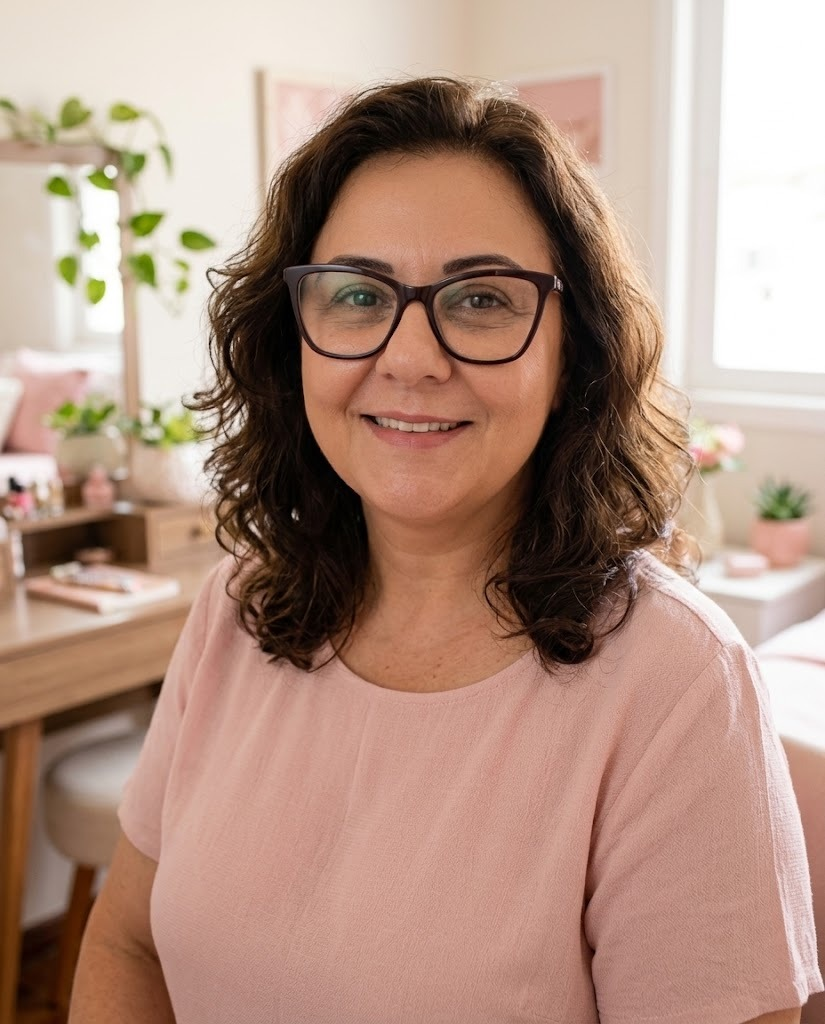
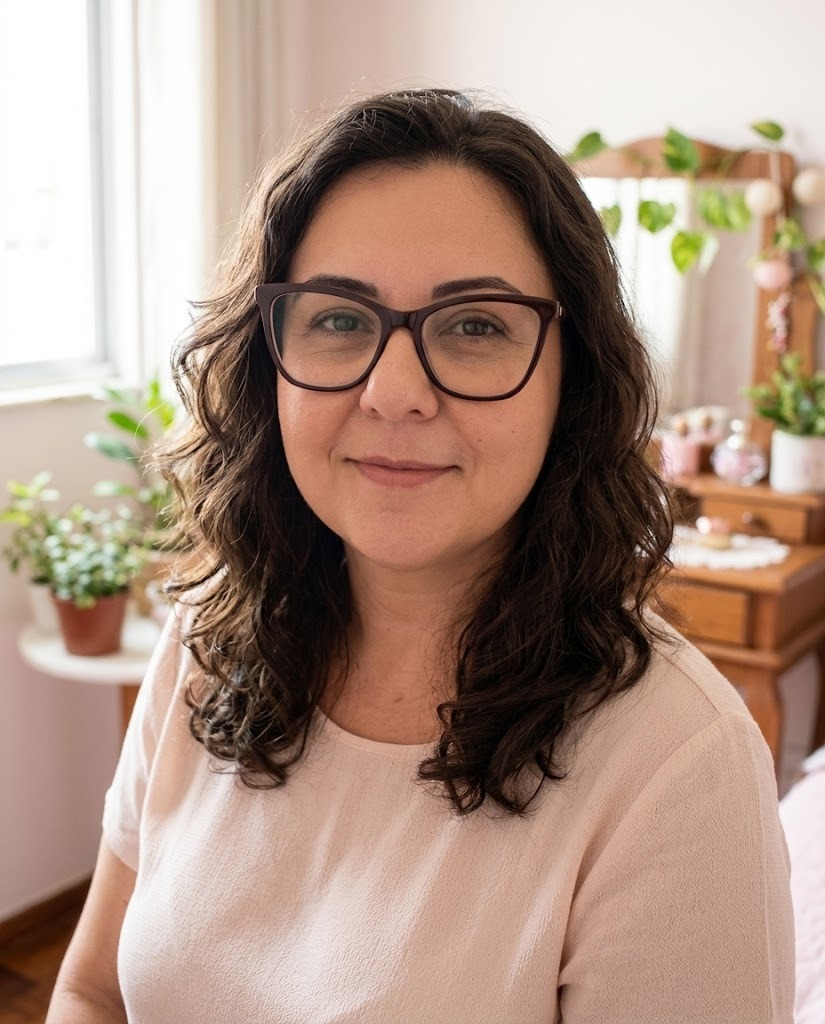
👩 Ana: nova foto da personagem
Claude-Session: https://claude.ai/code/session_01RMPwdFmkpmweTCP5f1fk4a

diff --git a/src/layout_ana.py b/src/layout_ana.py
@@ -59,7 +59,7 @@ def logo(largura=330):
 
 
 ROSTO = PASTA / "ana.jpg"        # a personagem Ana (versão jovem da Ana de verdade)
-ROSTO_CORTE = (200, 90, 660, 550)  # recorte do rosto na foto 825x1024
+ROSTO_CORTE = (180, 120, 640, 580)  # recorte do rosto na foto 825x1024
 
 
 def avatar(diam):
